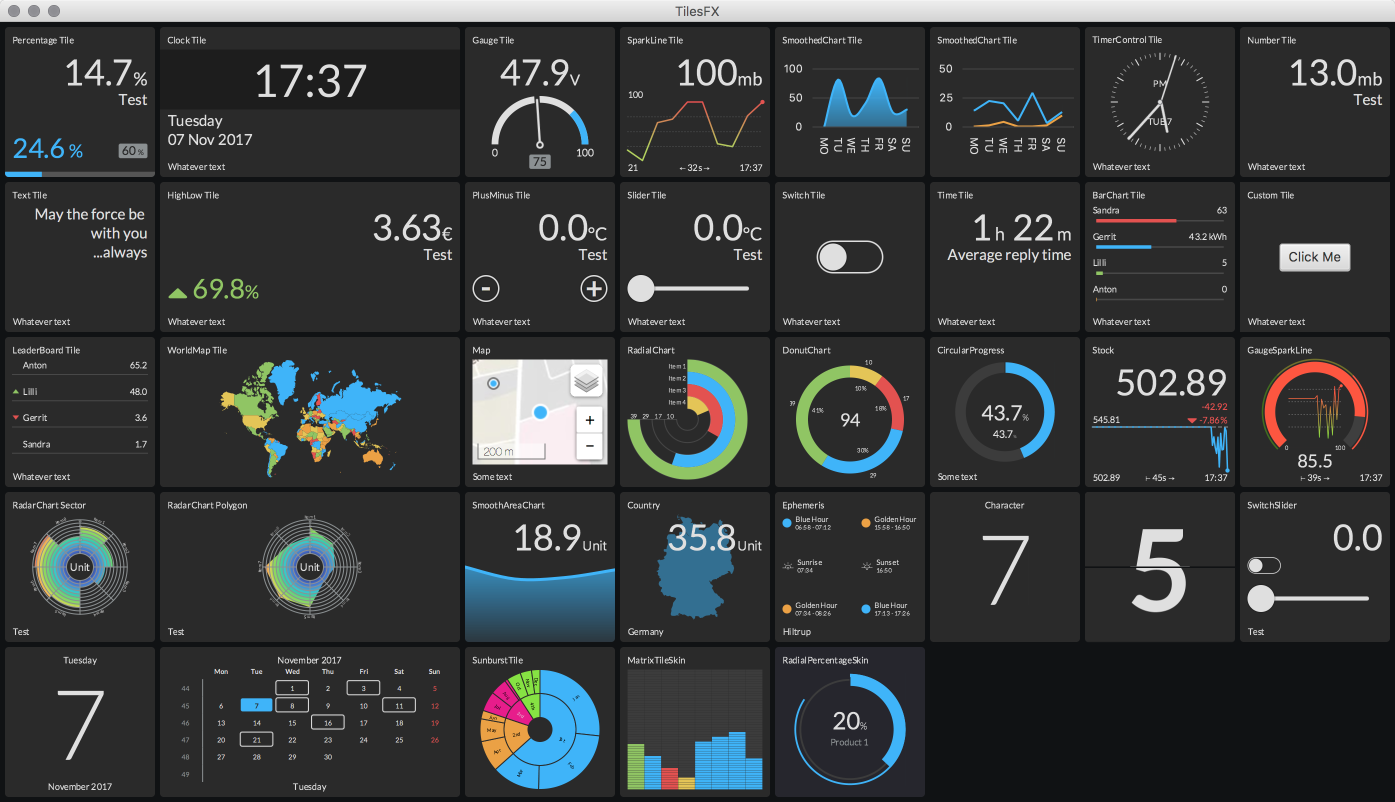
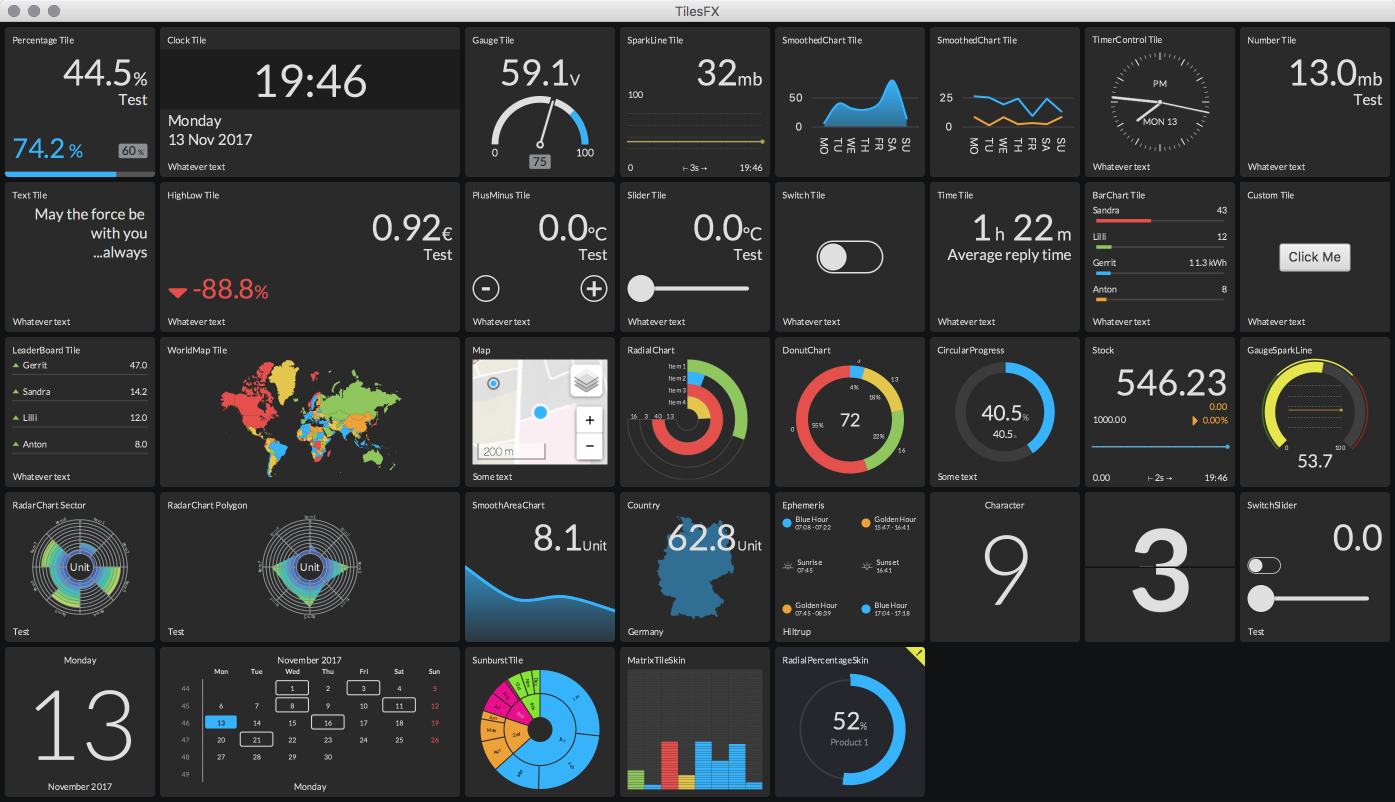
Minor cosmetics

diff --git a/src/main/java/eu/hansolo/tilesfx/Demo.java b/src/main/java/eu/hansolo/tilesfx/Demo.java
@@ -794,6 +794,8 @@ public class Demo extends Application {
 
         mapTile.addPoiLocation(new Location(51.85, 7.75, "Test"));
         mapTile.removePoiLocation(new Location(51.85, 7.75, "Test"));
+
+        radialPercentageTile.showNotifier(true);
     }
 
     @Override public void stop() {
